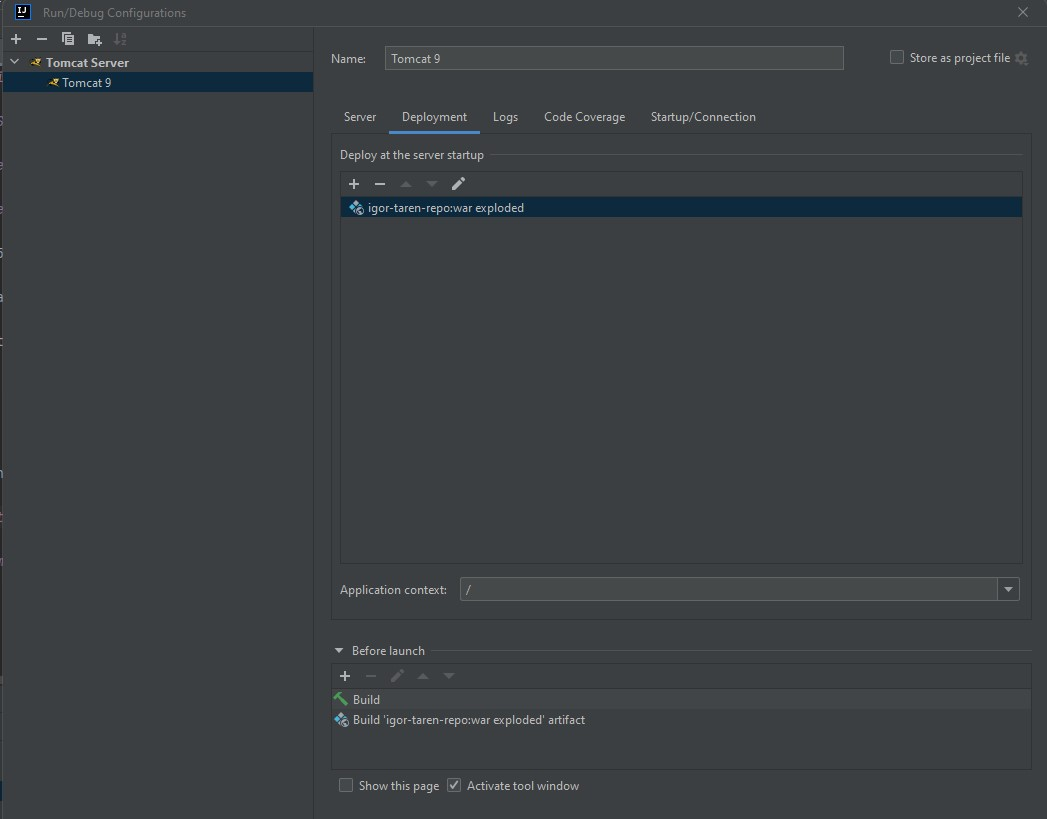
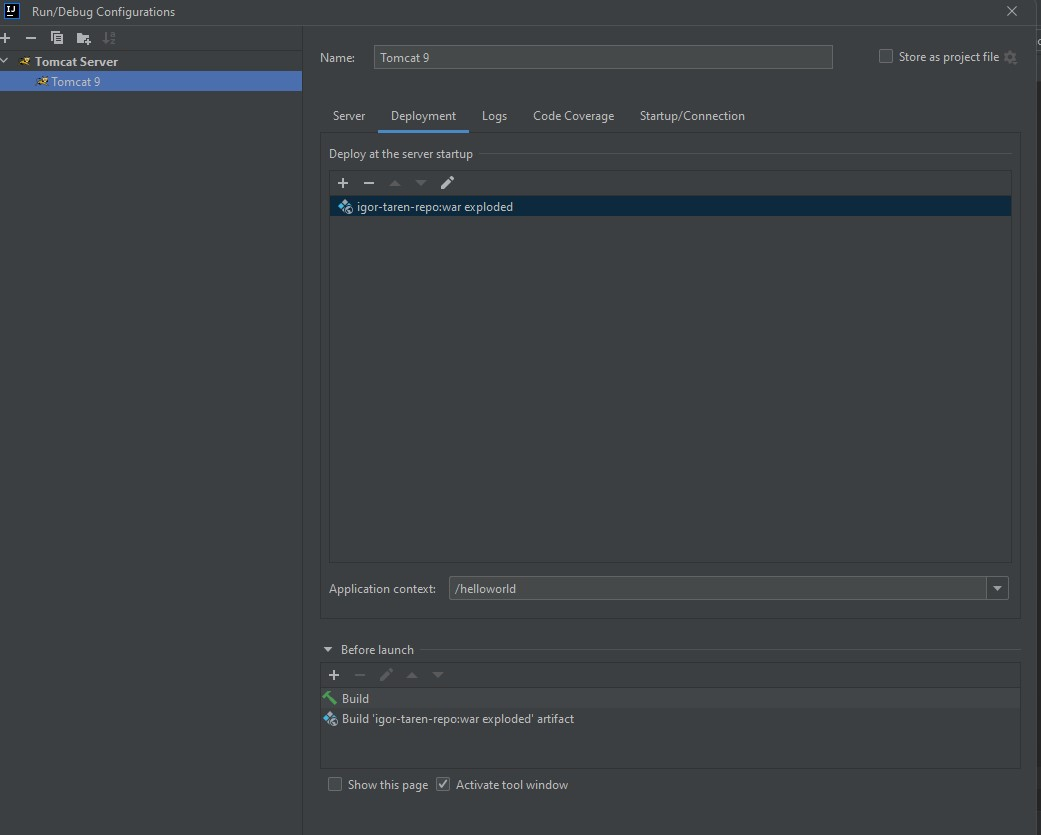
run via tomcat7-maven-plugin added

diff --git a/src/main/java/com/senla/webtask/controller/Servlet.java b/src/main/java/com/senla/webtask/controller/Servlet.java
@@ -14,7 +14,7 @@ public class Servlet extends HttpServlet {
     protected void doGet(HttpServletRequest req, HttpServletResponse resp) throws IOException, ServletException {
         String requestURI = req.getRequestURI();
         if (requestURI.endsWith("/")) {
-            handleRequest("Start Page", "click -> <a href=\"/hello\">/hello</a>", req, resp);
+            handleRequest("Start Page", "click -> <a href=\"${pageContext.request.contextPath}/hello\">/hello</a>", req, resp);
         } else if (requestURI.endsWith("/hello")) {
             handleRequest("Hello World Page", "Hello World!", req, resp);
         }

diff --git a/README.md b/README.md
@@ -21,13 +21,22 @@ Task 15 (difficulty 3)
 (optional, but highly recommended) Add a tomcat plugin to the HelloWorld project, with which to perform deploy/undeploy
 on/from Tomcat.
 
-#### Run Configuration
-
-![](config1.jpg)
-![](config2.jpg)
-
 #### Stack
 
 - java 17
 - apache-tomcat 9.0.82
 - jakarta.servlet-api 4.0.4
+- tomcat7-maven-plugin 2.2
+
+#### Application start procedure 
+
+- via tomcat7-maven-plugin
+
+mvn clean install    
+mvn tomcat7:deploy  
+follow -> http://localhost:8080/helloworld
+
+- via ide run
+
+![](config1.jpg)
+![](config2.jpg)
